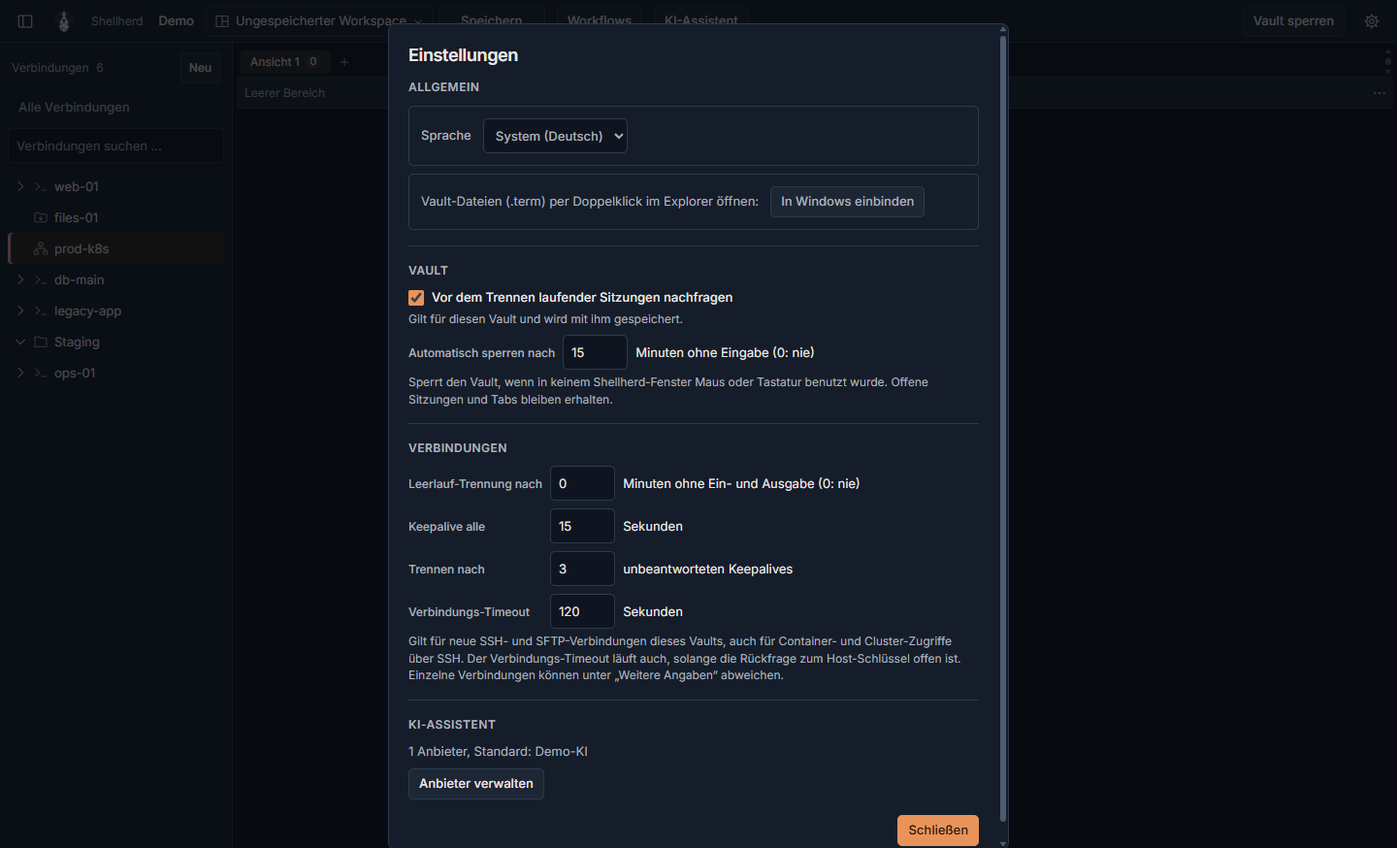
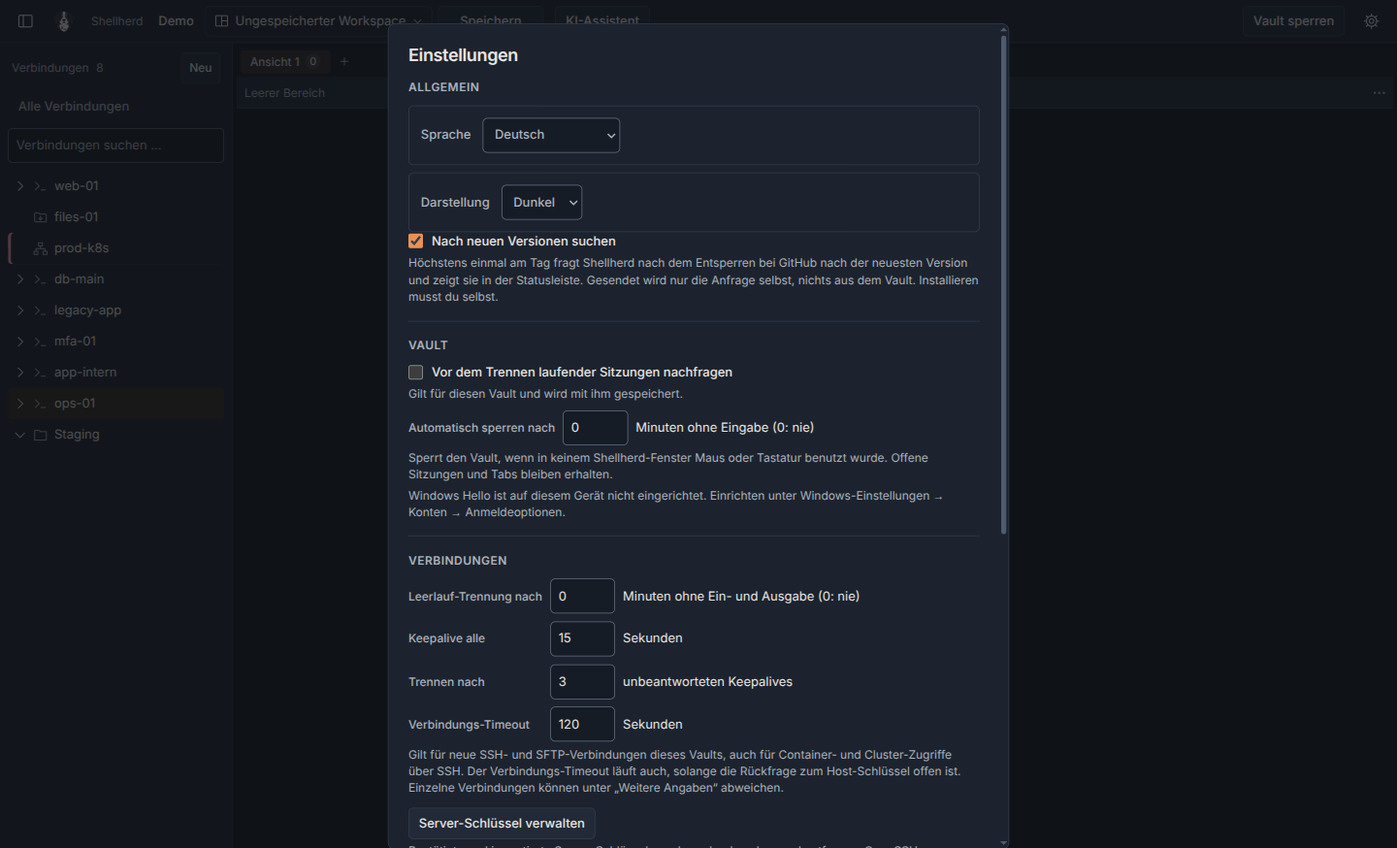
Prepare 0.31.0 Windows and Linux release with refreshed documentation and screenshots

diff --git a/README.md b/README.md
@@ -16,26 +16,16 @@
 </div>
 
 <p align="center">
-  <img src="docs/images/brag.gif" alt="22-second tour of Shellherd: SSH terminals, Kubernetes, SFTP and the AI assistant in one window" width="100%">
+  <img src="docs/images/screenshot-terminals.png" alt="Shellherd 0.31 on Linux with SSH sessions, a customizable terminal toolbar and the connection tree" width="100%">
 </p>
-<p align="center"><sub>22-second tour · <a href="docs/images/brag.mp4?raw=1">with sound (MP4)</a></sub></p>
-
-<p align="center">
-  <img src="docs/images/screenshot-terminals.png" alt="Shellherd with two SSH sessions side by side and the connection tree on the left" width="100%">
-</p>
-
-<table>
-  <tr>
-    <td width="50%"><img src="docs/images/screenshot-connection-error.png" alt="Connection error card with cause, next step and actions"></td>
-    <td width="50%"><img src="docs/images/screenshot-notice.png" alt="Success notice after saving a workspace"></td>
-  </tr>
-  <tr>
-    <td align="center"><sub>Clear connection errors with the next step</sub></td>
-    <td align="center"><sub>Notices that tell you what happened</sub></td>
-  </tr>
-</table>
 
 Shellherd keeps all your servers, desktops and clusters in one window. Connections and their credentials live in a single encrypted vault file (`.term`) that you can carry around, back up or keep in sync – no account and no cloud service required.
+
+## New in 0.31.0
+
+Windows and Linux now share the same release: Windows setup and portable EXEs, an Ubuntu/Debian DEB and a portable Linux AppImage, with installation scripts and SHA-256 checksums. On Linux, open local Bash, Zsh or Fish sessions alongside your SSH connections.
+
+The new **SSH terminal toolbar** replaces the workflow palette. Pin commands, choose whether a click inserts or runs them, and add JSON-driven status displays for CPU, RAM or your own health checks. Previous workflow data stays in the vault; recreate the commands you need as toolbar buttons. [Set up CPU and RAM displays](#cpu-and-ram-toolbar-examples) or read the [full changelog](CHANGELOG.en.md#0310--2026-10-30).
 
 ## Features
 
@@ -44,13 +34,14 @@ Shellherd keeps all your servers, desktops and clusters in one window. Connectio
 - **Root shell and start commands** – per SSH connection, become root with `sudo -i` after login and type start commands, one line each.
 - **Split views and workspaces** – drag tabs into up to four panes, rename tabs and views, and save the layout as a named workspace.
 - **Remote Desktop (RDP, Windows)** – embedded in a tab, no extra install, including shortcuts like Ctrl+Alt+Del.
-- **SFTP file browser** – two-pane, WinSCP style (go to path, filter, hide dotfiles), with a transfer queue, edit-and-upload for remote files and Auto-Upload that mirrors a local folder to the server while the view is open. Transfers keep many requests in flight, resume where they stopped and can be verified by SHA-256 checksum. Text, configuration and source files open in their default program, everything else in Notepad, so a remote script never runs by accident.
+- **SFTP file browser** – two-pane, WinSCP style (go to path, filter, hide dotfiles), with a transfer queue, edit-and-upload for remote files and Auto-Upload that mirrors a local folder to the server while the view is open. Transfers keep many requests in flight, resume where they stopped and can be verified by SHA-256 checksum. Edit remote files in a local text editor; remote scripts are opened as text.
 - **Docker and Podman** – a container view per SSH host or for the local machine: containers, images, volumes and networks with filters, logs, shell and inspect.
 - **Proxmox** – LXC containers and VMs under their host, with shell, serial console and power actions.
-- **Kubernetes** – set up a cluster from an existing SSH connection; live nodes, workloads, pods and events with drill-down, logs, shell, YAML and describe, and port forwards to pods and services on 127.0.0.1, logs of all pods of a workload merged by time, and menu entries greyed out up front when RBAC forbids them, and an AI analysis of a failing pod or workload that only reads and never sends Secrets, links to Argo CD and Harbor, and a self-heal hint before changing what Argo CD manages. Production clusters ask you to type the resource name before any change.
-- **German and English UI** – follows the Windows language by default; switch any time without a restart. Dates, numbers and sorting follow the language too.
+- **Kubernetes** – live nodes, workloads, pods and events through an existing SSH connection. Inspect YAML, describe resources, open shells, stream merged workload logs and forward pod or service ports to 127.0.0.1. RBAC pre-checks disable forbidden actions; production changes require typing the resource name.
+- **Cluster diagnosis and GitOps links** – preview a read-only AI analysis of failing resources with masking always enabled and no Secrets read. Open matching resources in Argo CD or Harbor, and see a self-heal warning before changing an Argo CD managed resource.
+- **German and English UI** – follows the system language by default; switch any time without a restart. Dates, numbers and sorting follow the language too.
 - **Lock screen** – lock by hand or automatically after a set time without input; sessions keep running behind it and are back after unlocking. Idle disconnect, keepalive and connection timeout are set per vault and can be overridden per connection.
-- **Settings in one place** – gear in the header or `Ctrl+,`: language, light or dark appearance, `.term` file association, confirmation before disconnecting, auto-lock, connection timeouts and the AI providers.
+- **Settings in one place** – gear in the header or `Ctrl+,`: language, light or dark appearance, Windows `.term` file association, confirmation before disconnecting, auto-lock, connection timeouts and the AI providers.
 - **SSH terminal toolbar** – customizable command buttons and JSON-driven dynamic displays, scoped to one connection or all SSH connections. Choose insert/execute mode, optional confirmation, icons, colors and exact value mappings. [CPU/RAM examples](#cpu-and-ram-toolbar-examples).
 - **Terminal comfort** – search in the terminal with `Ctrl+Shift+F`, links opened with Ctrl+click (http and https only), tab shortcuts, a mark on background tabs with new output, input to all panes, and font, scrollback and cursor settings.
 - **Local shells** – PowerShell and CMD on Windows; automatically detected Bash, Zsh and Fish on Linux.
@@ -58,6 +49,19 @@ Shellherd keeps all your servers, desktops and clusters in one window. Connectio
 - **AI assistant** (optional) – reads the terminal, explains output and suggests the next command. Nothing reaches the terminal until you click **Type in**, and nothing runs until you press Enter. Works with OpenAI-compatible endpoints (including Ollama and LM Studio), Azure AI Foundry, Anthropic and Google Gemini.
 
 ## Screenshots
+
+Captured from Shellherd 0.31.0 running on Linux with a synthetic vault and local demo services. CPU/RAM status values are simulated; screenshots contain no real infrastructure or credentials. [Reproduce the gallery](docs/images/README.md).
+
+<table>
+  <tr>
+    <td width="50%"><img src="docs/images/screenshot-terminals-light.png" alt="Two SSH terminals with command buttons and CPU/RAM status displays in the light theme"></td>
+    <td width="50%"><img src="docs/images/screenshot-toolbar.png" alt="Toolbar editor with a background JSON command, remote script picker and refresh interval"></td>
+  </tr>
+  <tr>
+    <td align="center"><sub>Light theme, root shell and shared SSH toolbar</sub></td>
+    <td align="center"><sub>Configure commands and dynamic displays per vault or connection</sub></td>
+  </tr>
+</table>
 
 <p align="center">
   <img src="docs/images/screenshot-kubernetes.png" alt="Kubernetes view of a production cluster: node tiles with CPU and RAM, a problem banner and the pod table" width="100%">
@@ -74,7 +78,7 @@ Shellherd keeps all your servers, desktops and clusters in one window. Connectio
     <td align="center"><sub>Docker containers per SSH host</sub></td>
   </tr>
   <tr>
-    <td width="50%"><img src="docs/images/screenshot-settings.png" alt="Settings dialog with language, file association, disconnect confirmation and AI providers"></td>
+    <td width="50%"><img src="docs/images/screenshot-settings.png" alt="Linux settings with language, appearance and platform-specific options"></td>
     <td width="50%"><img src="docs/images/screenshot-assistant.png" alt="AI assistant panel next to a terminal, suggesting a command with buttons to type it in or copy it"></td>
   </tr>
   <tr>
@@ -96,11 +100,11 @@ Download the latest version from the [releases page](https://github.com/pelmenip
 
 The builds are not code-signed yet, so Windows SmartScreen may warn on first start. Choose **More info → Run anyway**.
 
-**Supported platforms:** Windows 10/11 x64 and Linux x86_64 (Ubuntu 22.04/24.04 or newer with a graphical desktop). Linux packages include Electron and their native modules; end users do not need Node.js. Linux builds are prepared by this change; check the assets of a release for availability.
+**Supported platforms:** Windows 10/11 x64 and Linux x86_64 (Ubuntu 22.04/24.04 or newer with a graphical desktop). Linux packages include Electron and their native modules; end users do not need Node.js. Linux packages and the installation scripts are included starting with 0.31.0; older releases may contain only Windows executables.
 
 ### Windows installation
 
-The setup EXE installs Shellherd for the current user and adds a Start menu entry. Alternatively, after a release containing the PowerShell installer has been published, paste this into **PowerShell**:
+The setup EXE installs Shellherd for the current user and adds a Start menu entry. For releases from 0.31.0 onward, you can also paste this into **PowerShell**:
 
 ```powershell
 & ([scriptblock]::Create((Invoke-RestMethod 'https://github.com/pelmenipower/Shellherd/releases/latest/download/install.ps1')))
@@ -114,21 +118,21 @@ To inspect the script first, download `install.ps1` from the release and open it
 powershell.exe -NoProfile -ExecutionPolicy Bypass -File .\install.ps1
 ```
 
-Optional: `-Version 0.30.0` selects a published version, `-Silent` runs the setup without its wizard, and `-InstallerPath .\Shellherd-Setup-0.30.0.exe` uses a trusted local build. Local EXEs are supplied by you and are not checked against release checksums.
+Optional: `-Version 0.31.0` selects a published version, `-Silent` runs the setup without its wizard, and `-InstallerPath .\Shellherd-Setup-0.31.0.exe` uses a trusted local build. Local EXEs are supplied by you and are not checked against release checksums.
 
-**Availability:** Both online installation commands require a release containing their scripts, `SHA256SUMS` and the corresponding packages. These new assets have not been published by this change. Until then, use a local installer or download an existing EXE manually.
+**Availability:** The online installation commands require a published release of **0.31.0 or later** with the scripts, `SHA256SUMS` and matching packages. Preparing or merging a release branch alone does not publish these files; the Release workflow must finish successfully on `main`. Until then, use a local installer or an existing Windows download.
 
 ### Linux installation
 
-Once a Linux release with the installer and checksums has been published, install it with:
+For a published release of 0.31.0 or later, install the Linux DEB with:
 
 ```bash
 curl -fsSL https://github.com/pelmenipower/Shellherd/releases/latest/download/install.sh | bash
 ```
 
-The script downloads the DEB, verifies its SHA-256 checksum and installs it through APT, including dependencies and desktop integration. Only APT requests sudo privileges. No Node.js is required. This command becomes available after the first release containing `install.sh`, `SHA256SUMS` and the Linux DEB; these assets have not been published by this change.
+The script downloads the DEB, verifies its SHA-256 checksum and installs it through APT, including dependencies and desktop integration. Only APT requests sudo privileges. No Node.js is required. The selected release must contain `install.sh`, `SHA256SUMS` and the Linux DEB (0.31.0 or later).
 
-For a local build, use `bash ./install.sh --package ./dist/Shellherd-0.30.0-amd64.deb`.
+For a local build, use `bash ./install.sh --package ./dist/Shellherd-0.31.0-amd64.deb`.
 
 For Ubuntu, the DEB is the recommended installation. Download the matching version and install it with APT so desktop libraries are resolved:
 
@@ -163,7 +167,7 @@ This requires a published release with `install.sh`, `SHA256SUMS` and the DEB, j
 **Local development build:** from the repository directory, install your freshly built DEB with:
 
 ```bash
-bash ./install.sh --package ./dist/Shellherd-0.30.0-amd64.deb
+bash ./install.sh --package ./dist/Shellherd-0.31.0-amd64.deb
 ```
 
 Replace the filename if your build uses another version. The installer uses APT's `--reinstall`, so this also updates a local build whose version number has not changed. Local packages are supplied by you and are not verified against release checksums. The script does not build the app. After the installation completes, finish your sessions, fully close Shellherd and reopen it to load the updated app. Vault files are retained.
@@ -337,12 +341,14 @@ Feature branches merge into `staging` by pull request. `main` only receives pull
 
 ### Releasing
 
-1. On `staging`, bump the version: `npm run version:minor` (or `:patch` / `:major`).
-2. Add a matching `## [x.y.z] – YYYY-MM-DD` section to both [`CHANGELOG.md`](CHANGELOG.md) (German) and [`CHANGELOG.en.md`](CHANGELOG.en.md) (English), with the same number of entries – the build and the tests fail otherwise.
-3. Commit, push `staging` and open a pull request into `main`.
-4. Merge it once CI is green.
+1. Create a dedicated release branch from the current `origin/main` (or from `origin/staging` when preparing changes already staged). A separate worktree keeps other work isolated: `git worktree add -b release/0.31.0 ../shellherd-release origin/main`.
+2. On that branch, bump the version with `npm run version:minor` (or `:patch` / `:major`). Add a matching `## [x.y.z] – YYYY-MM-DD` section to both [`CHANGELOG.md`](CHANGELOG.md) (German) and [`CHANGELOG.en.md`](CHANGELOG.en.md) (English), with the same number of entries.
+3. Update the README and screenshots, run `npm run build` and `npm test`, then commit and push only the release branch. Open its pull request **against `staging`**.
+4. The maintainer merges the release branch into `staging`, then opens and merges the `staging` → `main` pull request after CI passes. Never work, commit or push directly on `main` or `staging`.
 
-On every push to `main`, the [release workflow](.github/workflows/release.yml) reads the version from `package.json`. If there is no tag `vX.Y.Z` yet, it runs the tests, builds both executables, creates the tag on the merged commit and publishes a GitHub release with both changelog sections as bilingual release notes. Merges that keep the version publish nothing.
+On every push to `main`, the [release workflow](.github/workflows/release.yml) reads the version from `package.json`. For a version without an existing tag, it tests and packages **Windows and Linux**, validates the Linux packages, and uploads all four installers, both installation scripts and `SHA256SUMS` to a draft. Only after every asset is uploaded does it publish the release and mark it as latest, with bilingual release notes.
+
+**A merge does not bump the version automatically.** If `vX.Y.Z` is already published, the Release workflow skips packaging and publication. CI still builds and tests the code on both platforms, but creates no downloadable release installers. Rerunning Release with the same published version does not change this. Prepare a new version on a separate branch instead of replacing published assets or moving tags.
 
 ## License
 

diff --git a/.claude/skills/run-app/SKILL.md b/.claude/skills/run-app/SKILL.md
@@ -13,7 +13,7 @@ Die App läuft aus `out/` unter Playwright. Ein kleiner HTTP-Treiber auf `127.0.
 - **Native Dialoge ersetzt:** Speichern/Öffnen liefern `profile\demo.term`, Nachfragen (auch „Unbekannter SSH-Server“) antworten mit ihrem letzten Knopf. Sonst gehen Windows-Dialoge auf dem echten Desktop auf und blockieren den Treiber. Abschalten mit `SHELLHERD_RUN_REAL_DIALOGS=1`.
 - **Links nach außen ersetzt:** `shell.openExternal` im Main-Prozess schreibt die Adresse nur nach `globalThis.__shellherdOpened` (lesbar mit `/main`: `return globalThis.__shellherdOpened`). Es öffnet sich kein Browser. Abschalten mit `SHELLHERD_RUN_REAL_BROWSER=1`.
 
-Getestet unter Windows 11. Unter Linux braucht Electron zusätzlich `xvfb-run` und `--no-sandbox` (nicht erprobt).
+Unter Linux braucht Electron eine grafische Sitzung (oder `xvfb-run`) und eine funktionierende Chromium-Sandbox. Falls auf einem reinen Screenshot-System keine Sandbox verfügbar ist, startet `SHELLHERD_RUN_NO_SANDBOX=1 npm run drive` ausschließlich den Demo-Treiber ohne Sandbox. Nur mit synthetischen Daten verwenden; dies ist keine Paket- oder Sandbox-Abnahme. Die ausgelieferte App und die Paket-Smoke-Tests verwenden diese Option nicht.
 
 ## Ablauf
 
@@ -33,6 +33,8 @@ Bereitschaft abwarten: `for i in $(seq 1 60); do curl -sf -m 2 -H "x-driver-toke
 **Treiber-Token:** Der Treiber schreibt bei jedem Start ein neues Token nach `%TEMP%\shellherd-run\token`. Jede Anfrage braucht den Header `x-driver-token` (ohne Header oder mit `Origin`: 403), sonst könnte jede Website per `POST` an `127.0.0.1:9333` Code in der App ausführen. Alle `curl`-Beispiele unten verwenden `-H "$T"`.
 
 `screens.mjs` schreibt `sftp.png`, `sftp-typeahead.png`, `sftp-goto.png`, `sftp-hidden.png`, `sftp-filter.png`, `sftp-transfer-canceled.png`, `sftp-transfer.png`, `sftp-transfer-verified.png`, `sftp-auto-upload-dialog.png`, `sftp-auto-upload.png`, `containers.png`, `kubernetes.png`, `kube-forward-dialog.png`, `kube-forward.png`, `kube-forward-error.png`, `kube-rbac-menu.png`, `kube-logs-all.png`, `kube-logs-all-filter.png`, `kube-ai-preview.png`, `kube-ai-answer.png`, `cluster-links-form.png`, `kube-harbor-menu.png`, `kube-argo-menu.png`, `kube-argo-selfheal.png`, `settings.png`, `ai-settings.png`, `assistant.png`, `assistant-masked.png`, `ai-provider-masking.png`, `assistant-masking-off.png`, `lock-screen.png`, `lock-secondary.png`, `login-commands.png`, `tab-renamed.png`, `welcome.png`, `auth-prompt.png`, `jump-form.png`, `forwards.png`, `terminal-search.png`, `terminal-link.png`, `terminal-link-osc8.png` (Hinweis mit Ziel-Host bei OSC-8-Link), `settings-terminal.png`, `tab-activity.png`, `broadcast.png`, `import-openssh.png`, `import-result.png`, `import-putty.png`, `import-winscp.png`, `import-mremoteng.png`, `update-hint.png`, `update-menu.png`, `start-recent.png`, `light-terminal.png`, `light-sftp.png`, `light-kubernetes.png`, `light-settings.png`, `host-keys.png`, `host-keys-import.png`, `host-keys-search.png`, `hello-setting.png`, `hello-lock.png`, `hello-stale.png` und `hello-open.png`. Mit `--readme` landen `sftp`, `containers`, `kubernetes`, `settings` und `assistant` zusätzlich als `docs/images/screenshot-<name>.png` im Repo. Die drei älteren README-Bilder (Terminals, Fehlerkarte, Hinweis) entstanden von Hand per `/ss`. Endet der `lock`-, `lock-secondary`- oder `update`-Block mit einem Fehler, bleibt die App gesperrt: dann `demo-setup.mjs` neu starten (die App neu starten, falls es das Passwortfeld nicht findet).
+
+`node .claude/skills/run-app/release-screens.mjs` ergänzt nach den Komponentenszenen die README-Bilder `screenshot-terminals.png`, `screenshot-terminals-light.png` und `screenshot-toolbar.png`. Es nutzt den festen Demo-Vault, einen temporären lokalen SSH-Fake mit synthetischen CPU-/RAM-Antworten und stellt die gespeicherte Vault-Konfiguration anschließend wieder her. Die vollständigen Befehle stehen in `docs/images/README.md`.
 
 Screenshots landen in `%TEMP%\shellherd-run\shots` (Override: `SCREENSHOT_DIR`). **Screenshot immer ansehen** (Read auf die PNG) – ein leeres Fenster ist ein Startfehler.
 

diff --git a/docs/images/README.md b/docs/images/README.md
@@ -1,0 +1,45 @@
+# Screenshot gallery
+
+The README gallery was captured on Linux from Shellherd **0.31.0** on 2026-10-30, using the real Electron app, Playwright and the repository's synthetic demo services. Images are 1440 × 874 pixels: the status bar is cropped to exclude the vault path. No real credentials, server data or user directories are shown. CPU/RAM toolbar readings are fixed demo responses, not measurements of the capture machine.
+
+## Reproduce
+
+Use a clean checkout/worktree, its own installed dependencies and a graphical desktop (or Xvfb). Do not run another demo driver or server on the same ports. Keep the same `SHELLHERD_RUN_DIR` for every command, outside your home directory. A new directory gives you a fresh synthetic vault.
+
+```bash
+npm ci
+npm run build
+export SHELLHERD_RUN_DIR=/tmp/shellherd-gallery-031
+
+# Terminal 1, with the same SHELLHERD_RUN_DIR:
+npm run drive:sshd
+
+# Terminal 2, with the same SHELLHERD_RUN_DIR:
+npm run drive
+
+# Terminal 3, with the same SHELLHERD_RUN_DIR:
+node .claude/skills/run-app/demo-setup.mjs
+node .claude/skills/run-app/screens.mjs containers kubernetes settings assistant sftp --readme
+node .claude/skills/run-app/release-screens.mjs
+```
+
+The demo setup selects German because the scene selectors use German labels. On Linux the Windows Hello fake is disabled. The SFTP scene also exercises cancel/resume and SHA-256 verification with a temporary 512 MiB synthetic file; allow enough free disk space. The release scene starts a temporary loopback SSH server, seeds toolbar buttons and status mappings in the demo vault, captures both themes and the editor, and restores the saved vault configuration in `finally`.
+
+On a Linux capture host without a working Chromium sandbox, the driver alone supports `SHELLHERD_RUN_NO_SANDBOX=1 npm run drive`. This opt-in is only for isolated synthetic screenshots. It does not modify the packaged app or package smoke tests, and these screenshots do not validate production sandbox behavior.
+
+After capture, close the driver through its authenticated `/quit` route and stop the demo-server process. See [run-app instructions](../../.claude/skills/run-app/SKILL.md) for the driver API, token and cleanup details. Inspect every image before committing.
+
+## Files used by the README
+
+| Image | Scene |
+|---|---|
+| `screenshot-terminals.png` | Dark theme: two SSH sessions, root login commands and toolbar |
+| `screenshot-terminals-light.png` | The same sessions in the light theme |
+| `screenshot-toolbar.png` | Dynamic-display editor with script path and refresh settings |
+| `screenshot-sftp.png` | Synthetic local folder and remote SFTP home |
+| `screenshot-containers.png` | Six demo Docker containers |
+| `screenshot-kubernetes.png` | Demo production cluster, nodes and pod table |
+| `screenshot-settings.png` | Settings from the top of the dialog |
+| `screenshot-assistant.png` | Synthetic AI reply beside terminal output |
+
+Other images and the older tour video in this directory are historical assets and are not part of the 0.31.0 README gallery.

diff --git a/CHANGELOG.md b/CHANGELOG.md
@@ -4,6 +4,15 @@ Alle nennenswerten Änderungen an Shellherd (bis 0.9.0 unter dem Namen Terminus)
 MAJOR für inkompatible Änderungen (z. B. am Vault-Format), MINOR für neue Funktionen, PATCH für Fehlerbehebungen.
 Jede Version braucht hier einen Abschnitt `## [x.y.z] – JJJJ-MM-TT`; der Build bricht sonst ab.
 
+## [0.31.0] – 2026-10-30
+
+- Neu: Linux x86_64 mit DEB für Ubuntu/Debian und portablem AppImage. Windows erhält weiterhin Setup und portable EXE. Die Pakete werden auf Windows und Linux gebaut und getestet; Linux-Pakete enthalten Electron und die nativen Module.
+- Neu: Lokale Bash-, Zsh- und Fish-Terminals unter Linux, SSH-Agent über SSH_AUTH_SOCK, Desktop-Integration und Bearbeiten entfernter Textdateien mit einem installierten grafischen Editor. Eingebettetes RDP und Windows Hello bleiben Windows-Funktionen; übertragene Vaults lassen sich mit ihrem Passwort öffnen.
+- Neu: Konfigurierbare Toolbar in SSH-Terminals statt der bisherigen Workflow-Palette. Befehlsbuttons und dynamische Anzeigen gelten für eine Verbindung oder alle SSH-Verbindungen. Einfügen oder Ausführen, optionale Rückfrage, Symbole, Farben, Reihenfolge und JSON-Wertzuordnungen werden verschlüsselt im Vault gespeichert. Die bisherigen Workflow-Daten bleiben im Vault erhalten, werden aber nicht automatisch zu Toolbar-Elementen.
+- Neu: Hintergrundbefehle liefern dynamische Anzeigen als JSON, auf Klick oder in einem Intervall. Skripte lassen sich über die entfernte Dateiauswahl wählen; Tab ergänzt Befehlspfade. CPU- und RAM-Beispielskripte samt Einrichtung liegen unter examples/toolbar und in der README.
+- Neu: Installations- und Update-Skripte für Linux und Windows prüfen Downloads anhand von SHA256SUMS. Ein Release enthält beide Windows-EXEs, AppImage, DEB, install.sh, install.ps1 und Prüfsummen; veröffentlicht wird erst nach erfolgreichen Builds beider Plattformen.
+- Doku: README für 0.31.0 mit neuen Screenshots aus der echten App, Plattformgrenzen, Installation, Updates und einer Release-Anleitung über eigenen Branch → staging → main. Eine bereits veröffentlichte Versionsnummer erzeugt weiterhin kein zweites Release.
+
 ## [0.30.0] – 2026-10-25
 
 - Neu: Argo CD und Harbor im Cluster-Tab. Mit der Argo-CD- und der Harbor-Adresse im Cluster-Eintrag öffnen `In Argo CD öffnen` und `In Harbor öffnen` die App bzw. das Image im Browser, bei Pods das laufende Artefakt. Argo-verwaltete Objekte erkennt Shellherd an der Tracking-Annotation oder am Label `argocd.argoproj.io/instance`.

diff --git a/CHANGELOG.en.md b/CHANGELOG.en.md
@@ -4,6 +4,15 @@ All notable changes to Shellherd (called Terminus up to 0.9.0). Version numbers 
 MAJOR for incompatible changes (e.g. to the vault format), MINOR for new features, PATCH for bug fixes.
 Every version needs a section `## [x.y.z] – YYYY-MM-DD` here; the build fails otherwise.
 
+## [0.31.0] – 2026-10-30
+
+- New: Linux x86_64 with a DEB for Ubuntu/Debian and a portable AppImage. Windows continues to receive setup and portable EXEs. Packages are built and tested on Windows and Linux; Linux packages include Electron and native modules.
+- New: Local Bash, Zsh and Fish terminals on Linux, SSH agents through SSH_AUTH_SOCK, desktop integration and remote text editing with an installed graphical editor. Embedded RDP and Windows Hello remain Windows features; transferred vaults can be opened with their password.
+- New: A customizable SSH terminal toolbar replaces the workflow palette. Command buttons and dynamic displays apply to one connection or all SSH connections. Insert or execute mode, optional confirmation, icons, colors, ordering and JSON value mappings are encrypted in the vault. Previous workflow data is retained in the vault but is not automatically converted to toolbar items.
+- New: Background commands provide dynamic displays as JSON, on click or at an interval. Pick scripts through the remote file browser; Tab completes command paths. CPU and RAM example scripts and setup instructions are included under examples/toolbar and in the README.
+- New: Linux and Windows installation and update scripts verify downloads against SHA256SUMS. A release contains both Windows EXEs, AppImage, DEB, install.sh, install.ps1 and checksums; publication waits for successful builds on both platforms.
+- Docs: README for 0.31.0 with new screenshots from the running app, platform limitations, installation, updates and release instructions through a separate branch → staging → main. An already published version still does not produce a second release.
+
 ## [0.30.0] – 2026-10-25
 
 - New: Argo CD and Harbor in the cluster tab. With the Argo CD and Harbor addresses in the cluster entry, `Open in Argo CD` and `Open in Harbor` open the app or the image in your browser, for pods the running artifact. Shellherd recognizes objects managed by Argo CD by the tracking annotation or the `argocd.argoproj.io/instance` label.
